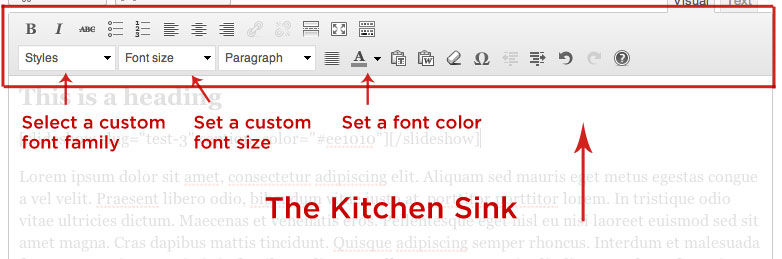
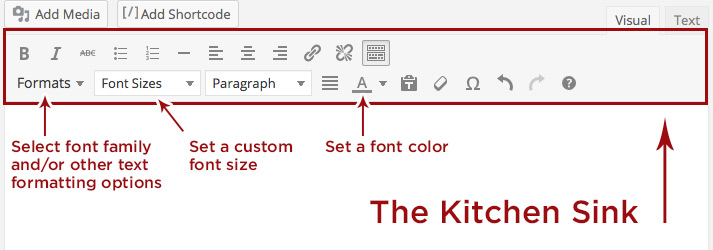
Updated theme help

diff --git a/includes/theme-help.php b/includes/theme-help.php
@@ -387,8 +387,8 @@
 
 					<p><strong>Font Family</strong></p>
 					<p>
-						To modify the font family for a small chunk of text, use the "Formats" dropdown in the
-						2nd row of the Kitchen Sink.  Here, you can pick from some of the most commonly used fonts in the print magazine, as well as
+						To modify the font family for a small chunk of text, click the "Formats" dropdown in the 2nd row of the Kitchen Sink,
+						and hover over "Font Family".  Here, you can pick from some of the most commonly used fonts in the print magazine, as well as
 						fonts used in previous online editions.  Highlight the text you want to modify and pick the font to apply your changes.
 					</p>
 					<p>
@@ -401,7 +401,7 @@
 						<p><strong>Notes About Using Different Font Families:</strong></p>
 						<ul>
 							<li>
-								<strong>Note: DO NOT use this tool to create your story's titles and subtitles!  Use
+								<strong>Note: DO NOT use this tool to <em>create</em> your story's titles and subtitles!  Use
 								<a href="#stories-about-headings">headings</a> instead.</strong>
 							</li>
 							<li>
@@ -427,7 +427,7 @@
 						<p><strong>Notes About Using Different Font Sizes:</strong></p>
 						<ul>
 							<li>
-								<strong>Note: DO NOT use this tool to create your story's titles and subtitles!  Use
+								<strong>Note: DO NOT use this tool to <em>create</em> your story's titles and subtitles!  Use
 								<a href="#stories-about-headings">headings</a> instead.</strong>
 							</li>
 							<li>
@@ -443,6 +443,13 @@
 						"Paragraph" dropdown.)  To specify a custom hex value, click the "More Colors" button at the bottom of the box that appears.
 					</p>
 
+					<p><strong>Other Text Formatting Options</strong></p>
+					<p>
+						Various other text formatting options are available under the "Formats" dropdown in the 2nd row of the Kitchen Sink.
+						These options are grouped by function; e.g. "Text Formatting" options can be applied to lines of text, while "List Style"
+						options can be applied to bulleted lists.
+					</p>
+
 					<div class="well">
 						<p><strong>Other Font Styles/Text Formatting Notes:</strong></p>
 						<p>
@@ -451,13 +458,17 @@
 						<ul>
 							<li>
 								<strong>Do not write text in all-caps anywhere in your story's copy, including headings</strong> (i.e. "MY HEADING TEXT").
-								This is considered a style adjustment, which should be handled by a developer.
+								ALL-CAPS text should be typed in normal-case and formatted using the "UPPERCASE" option in the "Formats" dropdown, under
+								"Text Formatting".  A "lowercase" option is also available for all-lowercase text.
 							</li>
 							<li>
 								When creating bulleted list items, please use the bulleted list tool (next to the line-through button in the kitchen sink.)
 								For ordered/numbered lists, use the numbered list tool (next to the bulleted list tool, to the left of the left-align button.)
 								Lists created using these tools are interpreted differently by screenreaders than copy+pasted bullets and lines of text, so it's
 								important to utilize these whenever necessary.
+							</li>
+							<li>
+								Bulleted lists can be styled using the "List Style" options in the "Formats" dropdown in the Kitchen Sink.
 							</li>
 						</ul>
 					</div>
